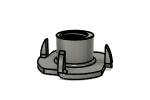
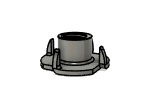
updated foot

Changed region(s): [[0.24, 0.27, 0.7733, 0.81]]

diff --git a/README.md b/README.md
@@ -17,15 +17,15 @@ The final CAD is available in the [cad/](cad/) folder and a preview online at [h
 
 |Image|Part|Description|Quantity|
 |-|-|-|-|
-|![](images/.25-in-hex-nut.png)|.25 in Hex Nut|Affiliate Link: https://amzn.to/4hm1ajV|4|
-|![](images/.25-in-tee-nut.png)|.25 in Tee Nut|Affiliate Link: https://amzn.to/4bI0S5J|4|
-|![](images/1-4-x-2-hex-bolt.png)|1/4 x 2" Hex Bolt|Affiliate Link: https://amzn.to/4hm1ajV|4|
+|![](images/.25-in-hex-nut.png)|1/4" in Hex Nut|Affiliate Link: https://amzn.to/4hm1ajV|4|
+|![](images/.25-in-tee-nut.png)|1/4" in Tee Nut|Affiliate Link: https://amzn.to/4bI0S5J|4|
+|![](images/1-4-x-2-hex-bolt.png)|1/4" x 2" Hex Bolt|Affiliate Link: https://amzn.to/4hm1ajV|4|
 |![](images/bubble-level.png)|Bubble Level|Affiliate Link: https://amzn.to/43Ag8j7|1|
 |![](images/deck.png)|Deck|60" x 48" x 3/4"|1|
-|![](images/footer-long.png)|Footer Long|60" x 3 1/2" x 1 1/2"|2|
-|![](images/footer-short.png)|Footer Short|45" x 3 1/2" x 1 1/2"|6|
-|![](images/golf-matt-assembly.png)|Golf Matt Assembly|Affiliate Link: https://amzn.to/3Dr7J77|1|
-|![](images/platform-foot.png)|Platform Foot|3" x 2 3/5" x 1"<br>Pressure Treated|4|
-|![](images/wood-screw-2.5in.png)|Wood Screw 2.5in|Affiliate Link: https://amzn.to/41nn14P|54|
+|![](images/footer-long.png)|Footer Long|60" x 3-1/2" x 1-1/2"|2|
+|![](images/footer-short.png)|Footer Short|45" x 3-1/2" x 1-1/2"|6|
+|![](images/golf-matt-assembly.png)|Golf Matt|Affiliate Link: https://amzn.to/3Dr7J77|1|
+|![](images/platform-foot.png)|Platform Foot|3" x 2-3/5" x 1"<br>Pressure Treated|4|
+|![](images/wood-screw-2.5in.png)|#9 x 2-1/2" Wood Screw|Affiliate Link: https://amzn.to/41nn14P|54|
 
 The above BOM was automatically generated using [tallman5/fusion-scripts](https://github.com/tallman5/fusion-scripts).
